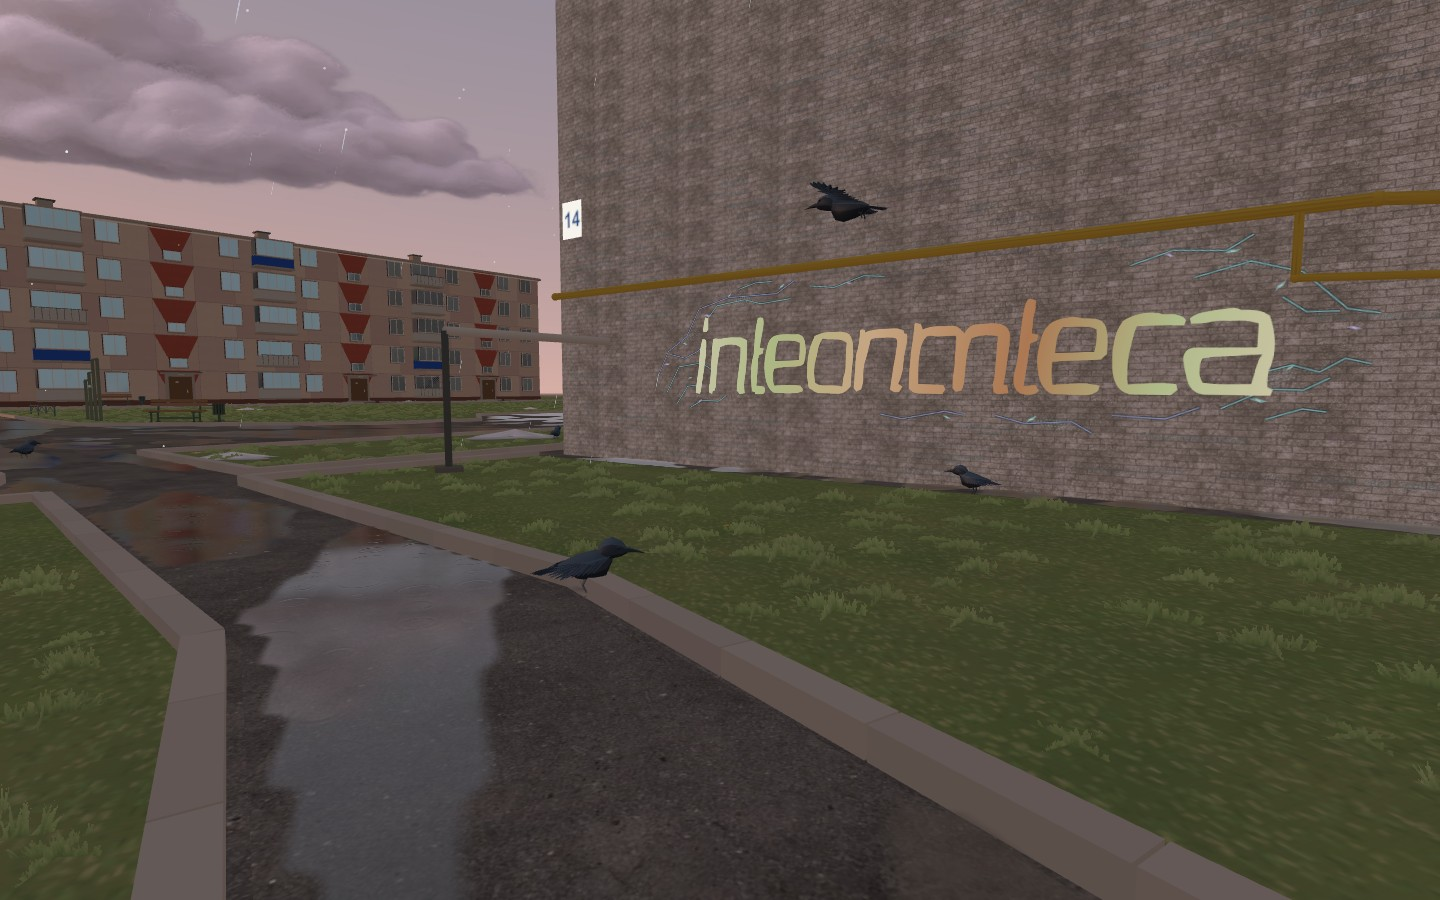
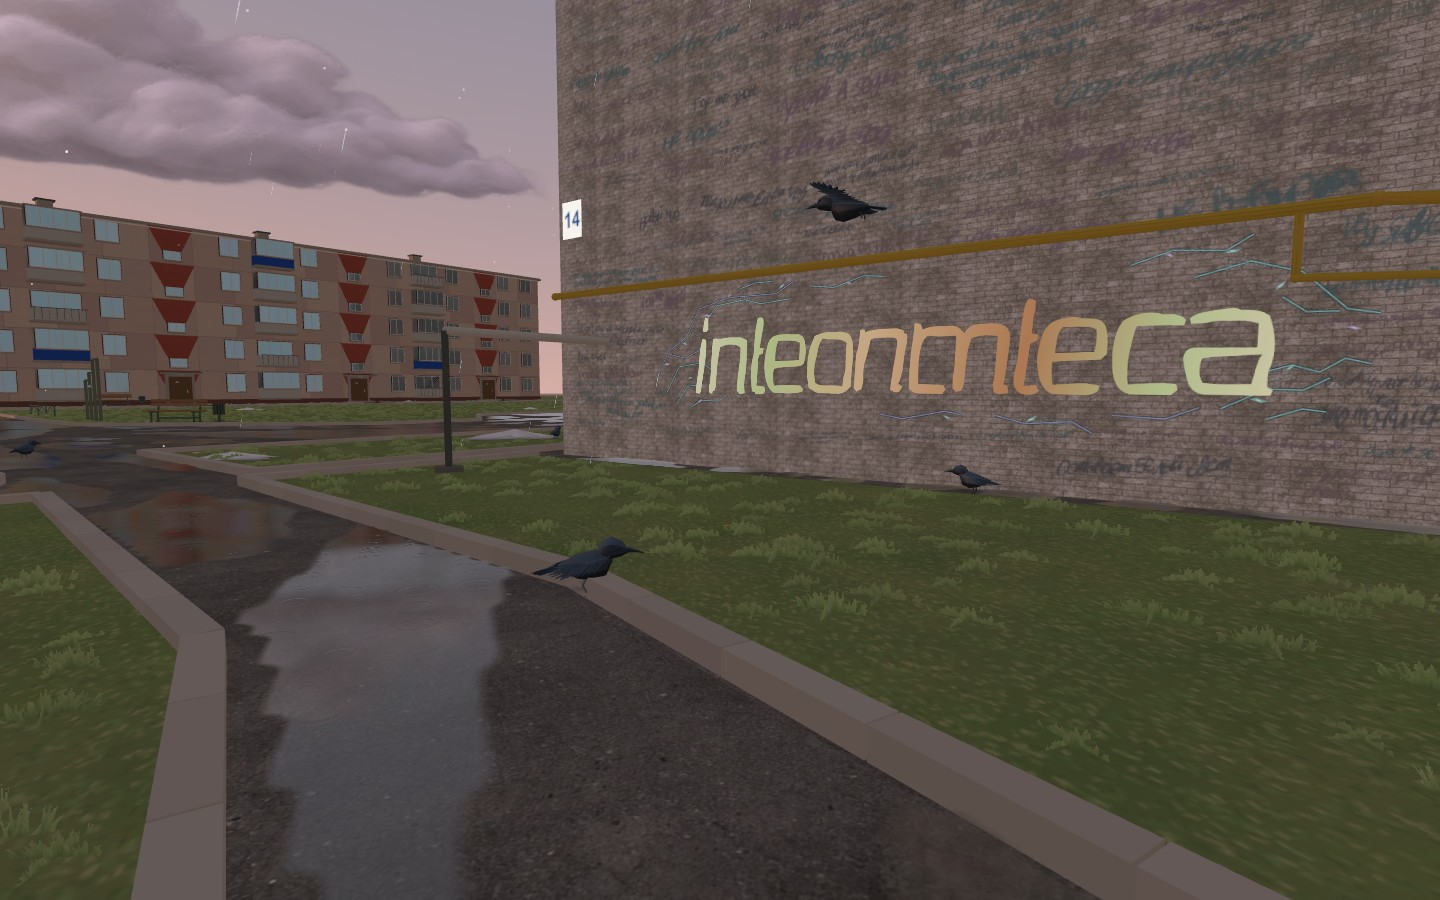
Cover the courtyard wall with larger, tangled marker handwriting

diff --git a/yard/wall-inscriptions.js b/yard/wall-inscriptions.js
@@ -4,18 +4,37 @@ import { lyricSheets } from './wall-lyrics.js';
 // Metres in the wordmark plane. On this end wall the left corner is at -7.56,
 // the right at +5.60 and the pavement is at -1.90. Leave the main letters free.
 function handwritingPatches() {
-  const patches = [], pigments = [0x363237,0x57443d,0x39494a,0x454442,0x584148];
+  const patches = [], pigments = [0x262329,0x483233,0x29393d,0x403c35,0x49303f];
   let seed = 9137;
   const random = () => (seed=(Math.imul(seed,1664525)+1013904223)>>>0)/4294967296;
-  for (let row=0; row<30; row++) {
-    const baseline = -1.70 + row*.206;
-    for (let left=-7.37+random()*.28; left<5.26;) {
-      const w = .88+.54*random(), h = .152+.045*random();
-      const x = left+w/2, y = baseline+(random()-.5)*.046;
-      left += w+.035+random()*.12;
-      if (left>5.48 || (Math.abs(x)<4.16+w/2 && Math.abs(y)<.88+h/2)) continue;
-      if (x< -6.60 && y>2.24 && y<3.14) continue; // House number plate.
-      patches.push({x,y,w,h,angle:(random()-.5)*.080,ink:pigments[Math.floor(random()*pigments.length)]});
+  // Big marker strokes share the brickwork with narrow, tightly packed notes.
+  // Give each run its own slope and spacing as it works around the wall fittings.
+  for (let row=0, bottom=-1.83; bottom<13.85; row++) {
+    const narrow = row%4 === 1;
+    const band = narrow ? .22+random()*.08 : .40+random()*.17;
+    const baseline = bottom + band/2, drift = random()*Math.PI*2;
+    const slope = (random()-.5)*.07, tilt = (random()-.5)*.12;
+    const besideLogo = Math.abs(baseline) < .86+band*.55;
+    const logoMargin = 4.22, minWidth = .85;
+    bottom += band*(.79+.17*random());
+    for (let left=-7.44+random()*.22; left<5.40;) {
+      // Use the short strip on either side of the signature, even if a full
+      // line from this run would otherwise extend across the signature.
+      if (besideLogo && left < logoMargin && -logoMargin-left < minWidth) left = logoMargin;
+      const end = besideLogo && left < -logoMargin ? -logoMargin : 5.48;
+      const w = Math.min(end-left, narrow ? .94+random()*.72 : 1.55+random()*1.31);
+      if (w < minWidth) break;
+      const h = band*(.84+random()*.29);
+      const x = left+w/2;
+      const y = baseline+.08*Math.sin(drift+x*.63)+slope*x*.40;
+      const angle = tilt+(random()-.5)*.16;
+      left += w+.015+random()*.13;
+      const halfW = (w*Math.cos(angle)+h*Math.abs(Math.sin(angle)))/2;
+      const halfH = (h*Math.cos(angle)+w*Math.abs(Math.sin(angle)))/2;
+      if (x-halfW <= -7.54 || x+halfW >= 5.58 || y-halfH <= -1.88) continue;
+      if (Math.abs(x)<4.15+halfW && Math.abs(y)<.86+halfH) continue;
+      if (x-halfW < -6.69 && x+halfW > -7.34 && y-halfH < 3.10 && y+halfH > 2.30) continue;
+      patches.push({x,y,w,h,angle,ink:pigments[Math.floor(random()*pigments.length)]});
     }
   }
   return patches;
@@ -114,7 +133,7 @@ export function createWallInscriptions(liveView, still) {
   mesh.userData.bakedShadowCaster = false;
   mesh.userData.bakedShadowReceiver = false;
   mesh.onBeforeRender = (_renderer, scene) => {
-    material.opacity = .73*(1-(scene.userData.virtuality || 0));
+    material.opacity = .81*(1-(scene.userData.virtuality || 0));
     night.value = 1-(scene.userData.solarLighting?.daylight ?? 1);
     time.value = liveView && !still.matches ? (performance.now()-born)/1000 : 0;
     if (material.opacity > .005) selectLyrics(time.value);

diff --git a/tools/bake-wall-lyrics.py b/tools/bake-wall-lyrics.py
@@ -61,33 +61,124 @@ const compactLetters = {
   р:'M1.1 3.5 L.1 12 M1.1 5.2 Q4.9 .1 6.8 3.9 Q8.4 7.3 4.7 8.5 Q2.1 9.1 1.1 7.6',
   у:'M.4 2.6 Q-.1 12.4 5.9 5.8 L6.9 2.9 Q5.6 14.8 .7 12.6 Q-1.2 11.4 2.4 9.9',
   ф:'M4.7 -.5 L3.6 12 M4.2 3.4 Q.5 1.7 0 5.6 Q-.2 9.5 3.9 7.8 Q8.4 10.3 8.5 5 Q8.1 2.5 4.2 3.4',
+  в:'M-.2 8.2 Q6.2 3.6 4.8 .4 Q2.9 -2 1.9 4 L1.1 8.7 Q6.9 10.1 6.3 6 Q5.9 3.6 2.2 5.5',
+  г:'M.1 6.8 Q1.7 2.1 4.8 3 Q8.4 3.4 5.1 5.3 L1.8 7.8 Q1.4 10.1 7.6 7.7',
+  д:'M5.9 4 Q1.7 1.5 .6 5.3 Q-.6 9.9 3 8.1 L6.5 3.3 Q5.9 11.7 2.2 14.2 Q-2.5 15.6 1.1 11.2 L7.9 7.4',
+  ж:'M.1 4.3 Q3.1 1.7 3.2 5.5 L.1 9 M3.1 6.4 L6 .9 4.1 9.3 M4.9 6.1 L9 3.1 M5.1 6.1 Q7.2 5.7 7.8 8.4 L9 7.8',
+  з:'M-.1 5 Q2.9 1.6 5.1 3.2 Q6.7 4.7 2.9 6.3 Q8.5 4.3 5 10.2 Q3.6 13.7 .4 13.4 Q-2.5 12.5 2.8 9.6 L7.6 7.3',
+  и:'M.7 3.9 L.1 8.8 Q1.8 11 6.8 2.7 L5.4 8.9 8.4 7',
+  й:'M.7 3.9 L.1 8.8 Q1.8 11 6.8 2.7 L5.4 8.9 8.4 7 M2.3 .1 Q4.9 2.1 6.8 -.7',
+  к:'M.4 9.1 L2 3 M1.6 6.5 Q7.2 .6 6.5 4 Q6.3 5.5 3.2 6.4 L5.5 9 8 7.6',
+  л:'M-.9 8.8 Q.6 10.1 2.3 7.2 L5.6 2.4 Q4.9 11.2 8.1 7.5',
+  м:'M-.6 9 Q1.5 9.5 3.2 2.8 L4.5 7.9 8.3 2.8 7.9 8.6 9.3 7.5',
+  н:'M.5 9.3 L2.1 2.9 M.8 6.4 Q3.7 7 6.9 5 L7.6 2.8 6.1 8.8 8.8 7.5',
+  о:'M7.4 4.6 Q4.2 1.6 1.8 4 Q-1.5 8.4 2 9 Q5.4 10 6.6 4.2 Q5.6 5.2 8.5 5.8',
+  п:'M-.7 8.5 Q.9 7.8 2.2 3.1 L1.1 8.8 Q5.1 .7 6.4 3.5 L5.5 8.9 8.5 7.2',
+  с:'M6.8 4.2 Q5.6 1.5 2.5 3.5 Q-1.6 7.4 1.2 8.9 Q4.4 10.2 8.3 6.6',
+  т:'M-.7 8.5 L2.2 3.1 1.2 9 Q6.5 -1.1 4.7 6.1 L4 8.9 Q9.2 -1 7.9 6.1 L7.4 9 10 7.1',
+  х:'M.3 4.3 Q3.8 1.1 4 6.1 Q4.4 10.9 8.3 7.1 M7.7 2.9 L.2 9.5',
+  ц:'M1.1 2.9 Q-1.6 13.5 3.8 7.1 L6.8 2.8 5.8 9.1 Q9 5.4 7.3 11.4 Q6.1 14.8 6 11.7 L9.1 7.3',
+  ч:'M1.2 2.7 Q-1.8 11.3 6.5 4.8 L7.1 2.6 6.1 9.4 8.7 7.4',
+  ш:'M.8 3.3 Q-1.4 14 3.4 6.8 L5.1 3.2 Q2.4 13.7 7.3 6.8 L8.9 3.1 8 9.1 10.5 7.3',
+  щ:'M.8 3.3 Q-1.4 14 3.4 6.8 L5.1 3.2 Q2.4 13.7 7.3 6.8 L8.9 3.1 8 9.1 Q11.3 5.4 9 12.1 L8.2 13.8 11.3 7.5',
+  ь:'M-.3 8.4 L2.2 2.8 1.1 8.9 Q5.6 10 6.2 7.5 Q6.6 5.5 2.1 6.4 L8.4 5.5',
+  ы:'M.2 3.3 L.2 8.8 Q5.6 10.3 5.7 7.3 Q5.8 5.3 .9 6.3 L7.9 4.9 8.3 2.9 7 9.1 9.4 7.4',
+  я:'M6.1 3.3 Q1.6 1.8 .9 4.8 Q.7 6.6 4.3 6.1 L-.2 9.2 M6.6 2.9 L5.5 8.8 8.1 7.3',
+  ё:'M.5 6.4 Q6.1 5.4 6.3 3.6 Q4 .9 1.6 3.2 Q-1.5 8.2 2.8 8.7 Q5.2 9.1 7.2 7.1 M2 .8 l.45 -.6 M5.7 .5 l.4 -.55',
+  b:'M-.5 8.2 Q5.4 3.1 5.1 -1.1 Q3.8 -3 2.8 .3 L.8 8.7 Q6.8 11 6.9 5.2 Q6.8 2.4 4.5 4.1 Q5.3 6.6 9 5.2',
+  d:'M6.4 3.8 Q1.2 1.4 .4 6 Q-.6 10.8 3.6 7.9 Q7.6 3.8 7.5 -2.3 L5.2 9 8.1 7.2',
+  f:'M-.3 8.7 Q5.4 2.6 5.8 -1 Q5.2 -3 3.9 -.8 Q1.7 3.8 2.4 12.7 Q3.3 14.3 4.1 9.6 L3 6.5 8.3 5.4',
+  h:'M-.3 8.7 Q5.4 3.8 5.7 -.5 Q5.2 -3.2 3.1 1 L.9 9.1 Q7.3 -1.5 6.2 6 L5.6 9 8.8 7.2',
+  i:'M-.3 8.7 L3.3 3.1 2 9.1 6.4 6.8 M3.5 .4 l.3 -.5',
+  j:'M-.2 8.8 L4.5 3.2 Q3.4 13.4 .2 14.2 Q-3 13.3 2.4 9.5 L6.7 7 M4.9 .9 l.3 -.8',
+  l:'M-.6 8.6 Q5.2 3.8 5.2 -.6 Q4.3 -2.4 2.5 .7 Q-1 12.2 6.9 7.1',
+  q:'M6.4 3.8 Q1.5 1.8 .4 5.8 Q-.4 10.5 3.1 8.1 L6.7 3 Q4.2 14 6.1 13 L8.2 7.2',
+  r:'M-.6 8.7 Q2.3 6.2 2.5 3.5 Q2.2 1.2 1.2 4.6 L1.5 8.8 Q3.6 2.9 5.3 3.5 Q6.6 5.3 8.1 4.2',
+  s:'M-.4 8.5 Q4.1 5.5 4.9 2.4 Q4.7 4.7 5.9 6.7 Q7.1 11.5 1.7 9 L-.2 8.4',
+  t:'M-.2 8.5 Q3.4 5 4.7 .2 L2.4 8.3 Q3.2 10.6 7.7 6.7 M1.1 4 L7.9 3.1',
+  v:'M-.6 5.4 Q1.8 .4 2.4 4.5 L2.2 9.1 Q6.4 6.5 7.1 2.8 Q6.6 5.5 9.1 5.2',
+  z:'M.1 4.8 Q2.7 1.3 5.4 3.5 L.8 8.6 Q6.2 4.5 7.3 6.9 Q7.7 9 4.3 12.7 Q1.1 14 .9 11.7 L8.3 7.5',
 };
+// The quick and angular forms share a baseline but have different stroke orders.
+const hooked = {
+  а:'M.1 7.7 L2.9 3.4 6.1 3 2.6 8.5 .5 8.1 6.8 3.1 5.4 8.2 8.6 6',
+  д:'M-.4 8.8 L2.9 3.8 6.4 3.4 5.1 8.6 M.7 8.5 L7.5 7.9 5.5 13.5 8.5 7.1',
+  и:'M0 5.1 L2.3 3 .8 8.6 3.2 7.6 7.6 2.6 5.4 9.1 8 7.2',
+  о:'M6.5 3.1 L2.6 3.3 .2 7.4 2.7 9 5.8 7 6.8 3.5 8.2 5.2',
+  т:'M-.5 4.7 L8.5 2.9 M4.9 3.5 L3 9.2 7.9 7.2',
+  е:'M.8 6.7 L5.9 4.4 4.5 2.7 1.2 4.4 .2 8 2.5 9 7.9 7',
+  л:'M-1 10 L2 8.3 5.9 2.4 5.4 8.6 8.9 7',
+};
+const sameStroke = {a:'а', c:'с', e:'е', g:'д', k:'к', m:'т', n:'п', o:'о',
+  p:'р', u:'и', w:'ш', x:'х', y:'у', A:'А', B:'В', C:'С', E:'Е', H:'Н', K:'К', M:'М',
+  O:'О', P:'Р', T:'Т', X:'Х'};
+
+// Trace each lifted stroke separately so a downstroke can spread like marker
+// felt while the return stroke barely grazes the brick.
+const sampler = document.createElementNS('http://www.w3.org/2000/svg','path');
+function penStrokes(pathData) {
+  return pathData.match(/M[^M]+/g).map(stroke => {
+    sampler.setAttribute('d',stroke);
+    const length=sampler.getTotalLength(), segments=Math.max(1,Math.ceil(length/1.3));
+    return Array.from({length:segments+1},(_,i) => {
+      const {x,y}=sampler.getPointAtLength(length*i/segments);
+      return {x,y};
+    });
+  });
+}
+
+function drawInk(ctx, strokes, pressure, grit, phase) {
+  ctx.beginPath();
+  for (const stroke of strokes) {
+    const left=[], right=[];
+    for (let i=0; i<stroke.length; i++) {
+      const p=stroke[i], before=stroke[Math.max(0,i-1)], after=stroke[Math.min(stroke.length-1,i+1)];
+      const dx=after.x-before.x, dy=after.y-before.y, len=Math.hypot(dx,dy) || 1;
+      const nx=-dy/len, ny=dx/len;
+      const slip=grit*(.55*Math.sin(i*1.63+phase)+.45*Math.sin(i*.67+p.y+phase));
+      const taper=i===0 || i===stroke.length-1 ? .72 : 1;
+      const radius=pressure*taper*(.34+.29*Math.max(0,dy/len)+.22*Math.abs(.83*nx-.55*ny));
+      left.push([p.x+nx*(slip+radius),p.y+ny*(slip+radius)]);
+      right.push([p.x+nx*(slip-radius),p.y+ny*(slip-radius)]);
+    }
+    ctx.moveTo(...left[0]);
+    for (const point of left.slice(1)) ctx.lineTo(...point);
+    for (const point of right.reverse()) ctx.lineTo(...point);
+    ctx.closePath();
+  }
+  ctx.fill();
+}
 
 function rasterizeLyrics() {
   const atlas = document.createElement('canvas');
   atlas.width = columns*cellW; atlas.height = rows*cellH;
   const ctx = atlas.getContext('2d',{willReadFrequently:true});
   ctx.font = 'italic 12px "Segoe Print", "Comic Sans MS", cursive';
-  const paths = Object.fromEntries(Object.entries({...letters,...compactLetters})
-    .map(([c,d]) => [c,new Path2D(d)]));
+  const paths = {...letters,...compactLetters};
   const glyphs = new Map();
   function glyph(c) {
     if (!glyphs.has(c)) {
       const lower = c !== c.toUpperCase();
-      const path = paths[c] || paths[c.toUpperCase()];
-      const small = lower && !paths[c];
-      const width = c === ' ' ? 4.6 : c === ',' ? 3.9 :
-        path ? (lower ? 8 : 10) : Math.max(3,ctx.measureText(c).width+1);
-      glyphs.set(c,{path,small,width});
+      const [letter,accent] = c.normalize('NFD');
+      const key = paths[c] ? c : sameStroke[letter] || letter;
+      const path = paths[key] || paths[key.toUpperCase()];
+      const small = lower && !paths[key];
+      const mark=accent==='\u0301' ? ' M3.5 1.3 L6.5 -1.1' : '';
+      const strokes = path && penStrokes(path+mark);
+      const variant = hooked[key] && (key!=='т' || c==='т') ? penStrokes(hooked[key]+mark) : null;
+      const width = c === ' ' ? 4.8 : c === ',' ? 3.9 :
+        strokes ? (lower ? ('тщшмmw'.includes(c)?8.3:'ijl'.includes(c)?4.4:6.7) : 8.7)
+        : Math.max(3,ctx.measureText(c).width);
+      glyphs.set(c,{strokes,variant,small,width});
     }
     return glyphs.get(c);
   }
   const widthOf = word => Array.from(word).reduce((w,c) => w+glyph(c).width,0);
   function fit(text, areaW) {
     const words = text.split(' '), widths = words.map(widthOf);
-    let low=0, high=4.9, best;
+    let low=0, high=6.2, best;
     for (let attempt=0; attempt<10; attempt++) {
-      const scale=(low+high)/2, limit=(areaW-10)/scale, lines=[];
+      const scale=(low+high)/2, limit=areaW/scale-16, lines=[];
       let line='', w=0;
       for (let i=0;i<words.length;i++) {
         const combined = w+(line ? glyph(' ').width : 0)+widths[i];
@@ -98,7 +189,7 @@ function rasterizeLyrics() {
         }
       }
       lines.push({line,w});
-      if (lines.every(l=>l.w<=limit) && (lines.length*15-2)*scale <= 86) {
+      if (lines.every(l=>l.w<=limit) && (lines.length*15+4)*scale <= 93) {
         best={lines,scale}; low=scale;
       } else high=scale;
     }
@@ -107,40 +198,72 @@ function rasterizeLyrics() {
   // Every line is painted once. Only a small tile index buffer changes as the
   // writing fades and reappears; the complete atlas has one byte per texel.
   lyrics.forEach((text,n) => {
-    const x=n%columns*cellW, y=Math.floor(n/columns)*cellH, areaW=620;
-    const {lines,scale}=fit(text,areaW);
+    const x=n%columns*cellW, y=Math.floor(n/columns)*cellH, areaW=510;
     let seed=18657+n*997;
     const random=()=>(seed=(Math.imul(seed,1664525)+1013904223)>>>0)/4294967296;
+    const slant=[-.46,-.25,.16][n%3], weight=1.0+random()*.47;
+    const grit=.18+random()*.31, wave=.7+random()*1.05;
+    const tracking=.88+random()*.23;
+    const {lines,scale}=fit(text,areaW/tracking);
     ctx.clearRect(x,y,cellW,cellH);
-    ctx.save(); ctx.translate(x,y); ctx.scale(cellW/areaW,cellH/100);
+    ctx.save();
+    ctx.beginPath(); ctx.rect(x+2,y+1,cellW-4,cellH-2);ctx.clip();
+    ctx.translate(x,y); ctx.scale(cellW/areaW,cellH/100);
     ctx.lineCap='round'; ctx.lineJoin='round'; ctx.strokeStyle=ctx.fillStyle='#fff';
     lines.forEach(({line,w:lineW}, j) => {
-      const startX=(areaW-lineW*scale)*(.31+.33*random());
+      const startX=(areaW-lineW*scale*tracking)*(.34+.25*random());
       let penX=startX;
-      const top=(100-(lines.length*15-4)*scale)/2+j*15*scale;
+      const top=(100-((lines.length-1)*15+10)*scale)/2+j*15*scale;
+      let lastExit=null;
+      const rowPhase=random()*6, rise=random()-.5;
+      let wordTilt=slant, step=0;
       for (const c of line) {
-        const {path,small,width}=glyph(c);
+        const {strokes,variant,small,width}=glyph(c);
         if (c!==' ') {
-          ctx.save(); ctx.translate(penX,top+(random()-.5)*.7*scale);
-          ctx.scale(scale,scale*(.95+.09*random()));
-          ctx.transform(1,(random()-.5)*.06,-.05-random()*.07,1,0,0);
-          ctx.lineWidth=1.1+.25*random(); ctx.globalAlpha=.83+.15*random();
-          if (path) {
+          const bend=wave*Math.sin(rowPhase+step*.77)+rise*(step%7-3)+(random()-.5)*1.7;
+          const sy=scale*(.87+random()*.31), tall=top+bend*scale;
+          const tilt=wordTilt+(random()-.5)*.32, shear=(random()-.5)*.28;
+          const nib=weight*(.87+.44*random());
+          const offsetX=penX-tilt*5.7*sy;
+          const form=variant && random()<.22+(n%3)*.17 ? variant : strokes;
+          if (lastExit && form) {
+            const first=form[0][0], start=small?2+first.y*.8:first.y;
+            const linkX=offsetX+scale*tracking*first.x+tilt*sy*start;
+            const linkY=tall+sy*start;
+            ctx.lineWidth=scale*nib*.51; ctx.globalAlpha=.7;
+            ctx.beginPath(); ctx.moveTo(...lastExit);
+            ctx.quadraticCurveTo(penX+scale*2,lastExit[1]-.45*scale,linkX,linkY);ctx.stroke();
+          }
+          ctx.save(); ctx.translate(offsetX,tall);
+          ctx.transform(scale*tracking,shear*scale,tilt*sy,sy,0,0);
+          ctx.globalAlpha=.80+.20*random();
+          if (form) {
             if (small) {ctx.translate(0,2);ctx.scale(.76,.8);}
-            else if (compactLetters[c]) ctx.translate(0,1.3);
-            ctx.stroke(path);
+            drawInk(ctx,form,nib,grit,random()*6);
+            const end=form[0].at(-1);
+            lastExit=[offsetX+end.x*scale*tracking+tilt*sy*end.y,tall+end.y*sy+shear*scale*end.x];
           } else {
-            // Keep original Latin case, accents, digits, quotes and punctuation.
+            // Preserve the remaining uppercase Latin glyphs and punctuation.
             ctx.fillText(c,0,9.5);
+            lastExit=null;
           }
           ctx.restore();
+        } else {
+          if (lastExit && step>1 && random()<.27) {
+            ctx.lineWidth=scale*(.53+.25*random());ctx.globalAlpha=.77;
+            ctx.beginPath();ctx.moveTo(...lastExit);
+            ctx.quadraticCurveTo(penX+scale*1.8,lastExit[1]+scale*1.4,penX+scale*(3+random()*3),lastExit[1]-scale*(2+random()*3));
+            ctx.stroke();
+          }
+          lastExit=null;wordTilt=slant+(random()-.5)*.4;
         }
-        penX+=width*scale;
+        penX+=width*scale*tracking;step++;
       }
       if (j===lines.length-1 && n%8===0) {
-        ctx.globalAlpha=.64; ctx.lineWidth=.79*scale;
-        ctx.beginPath(); ctx.moveTo(startX+scale,top+scale*12.8);
-        ctx.quadraticCurveTo((startX+penX)/2,top+scale*11.5,penX-scale*2,top+scale*13);
+        ctx.globalAlpha=.65;ctx.lineWidth=.7*scale;
+        ctx.beginPath();ctx.moveTo(startX+scale,top+scale*12.8);
+        ctx.lineTo(penX-scale*1.6,top+scale*(10+random()*2.2));
+        ctx.lineTo(penX-scale*10,top+scale*13.3);
         ctx.stroke();
       }
     });

diff --git a/tests/browser_wall_inscriptions.py b/tests/browser_wall_inscriptions.py
@@ -7,13 +7,15 @@ from playwright.sync_api import sync_playwright
 from browser_ambient_route import BASE, expose_walker
 
 
-def check(browser):
-    page = browser.new_page(viewport={"width": 1440, "height": 900})
+def check(browser, mobile=False):
+    viewport = {"width": 390, "height": 844} if mobile else {"width": 1440, "height": 900}
+    page = browser.new_page(viewport=viewport, is_mobile=mobile, has_touch=mobile)
     errors = []
     page.on("pageerror", lambda error: errors.append(str(error)))
     page.on("console", lambda msg: errors.append(msg.text) if "Shader Error" in msg.text else None)
     page.route("**/yard/auto-walk.js*", expose_walker)
-    page.add_init_script("Date.now = () => Date.parse('2026-06-21T08:30:00Z') + performance.now()")
+    stamp = "2026-06-21T18:30:00Z" if mobile else "2026-06-21T08:30:00Z"
+    page.add_init_script(f"Date.now = () => Date.parse('{stamp}') + performance.now()")
     page.goto(BASE, wait_until="domcontentloaded")
     page.wait_for_selector('body[data-yard-backdrop="live"]', timeout=60000)
     page.evaluate("""async () => {
@@ -22,7 +24,8 @@ def check(browser):
       T.Scene.prototype.onAfterRender = function(renderer,scene,camera,...rest) {
         previous.call(this,renderer,scene,camera,...rest);
         const logo = this.getObjectByName('music-logo');
-        if (!logo?.userData.inkReady || this.userData.detailLoading.status !== 'ready') return;
+        if (!logo?.userData.inkReady || !logo.getObjectByName('wall-marker-inscriptions')?.material.map.image?.width
+            || this.userData.detailLoading.status !== 'ready') return;
         window.wallFrame = {T,renderer,scene,camera,logo};
         if (window.takeWallPhoto) {
           window.wallPhoto = renderer.domElement.toDataURL();
@@ -33,6 +36,8 @@ def check(browser):
     page.wait_for_function("window.wallFrame", timeout=60000)
     if folder := os.environ.get("INTEON_MURAL_SHOTS"):
         path = Path(folder)
+        if mobile:
+            path = path / "mobile-evening"
         path.mkdir(parents=True, exist_ok=True)
         page.evaluate("window.takeWallPhoto = true")
         page.wait_for_function("window.wallPhoto")
@@ -64,6 +69,8 @@ def check(browser):
         if (bounds.min.x <= -7.56 || bounds.max.x >= 5.6 || bounds.min.y <= -1.9 ||
             (bounds.min.x < 4.1 && bounds.max.x > -4.1 && bounds.min.y < .825 && bounds.max.y > -.825))
           throw Error('Ink crosses a wall edge or the centre lettering: '+s);
+        if (bounds.min.x < -6.739 && bounds.max.x > -7.289 && bounds.min.y < 3.05 && bounds.max.y > 2.35)
+          throw Error('Ink crosses the house number plate: '+s);
       }
       const im = atlas.image, probe = document.createElement('canvas');
       probe.width=im.width; probe.height=im.height;
@@ -116,7 +123,8 @@ def check(browser):
         copy.onBeforeRender = (r,s,c)=>frozen.onBeforeRender(r,scene,c);
         const still=changed(read(0),read(21));
         spare.dispose();frozen.geometry.dispose();frozen.material.dispose();
-        return {slots,inOpeningView,heightM:heights.sort((a,b)=>a-b)[Math.floor(slots/2)],
+        heights.sort((a,b)=>a-b);
+        return {slots,inOpeningView,heightM:heights[Math.floor(slots/2)], maxHeightM:heights.at(-1),
                 calls:renderer.info.render.calls,triangles:renderer.info.render.triangles,
                 tracks:titles.length,lines:repertoire.size,moving,switched,still,
                 stableAtlas:stableAtlas && atlas.version===revision,
@@ -127,15 +135,17 @@ def check(browser):
       }
     }""")
     page.close()
-    assert report["slots"] >= 175 and report["inOpeningView"] >= 80 and report["heightM"] < .21, report
+    assert report["slots"] > 222 and report["inOpeningView"] >= (35 if mobile else 80), report
+    assert .35 < report["heightM"] < .48 and report["maxHeightM"] > .55, report
     assert report["calls"] == 1 and report["triangles"] == 2*report["slots"], report
     assert report["moving"] > 50 and report["switched"] > 280, report
     assert report["still"] == 0 and report["stableAtlas"] and report["refreshed"] and not errors, (report, errors)
-    print(report, flush=True)
+    print("mobile evening" if mobile else "desktop daylight", report, flush=True)
 
 
 if __name__ == "__main__":
     with sync_playwright() as playwright:
         browser = playwright.chromium.launch(channel="msedge", headless=True)
         check(browser)
+        check(browser, mobile=True)
         browser.close()
